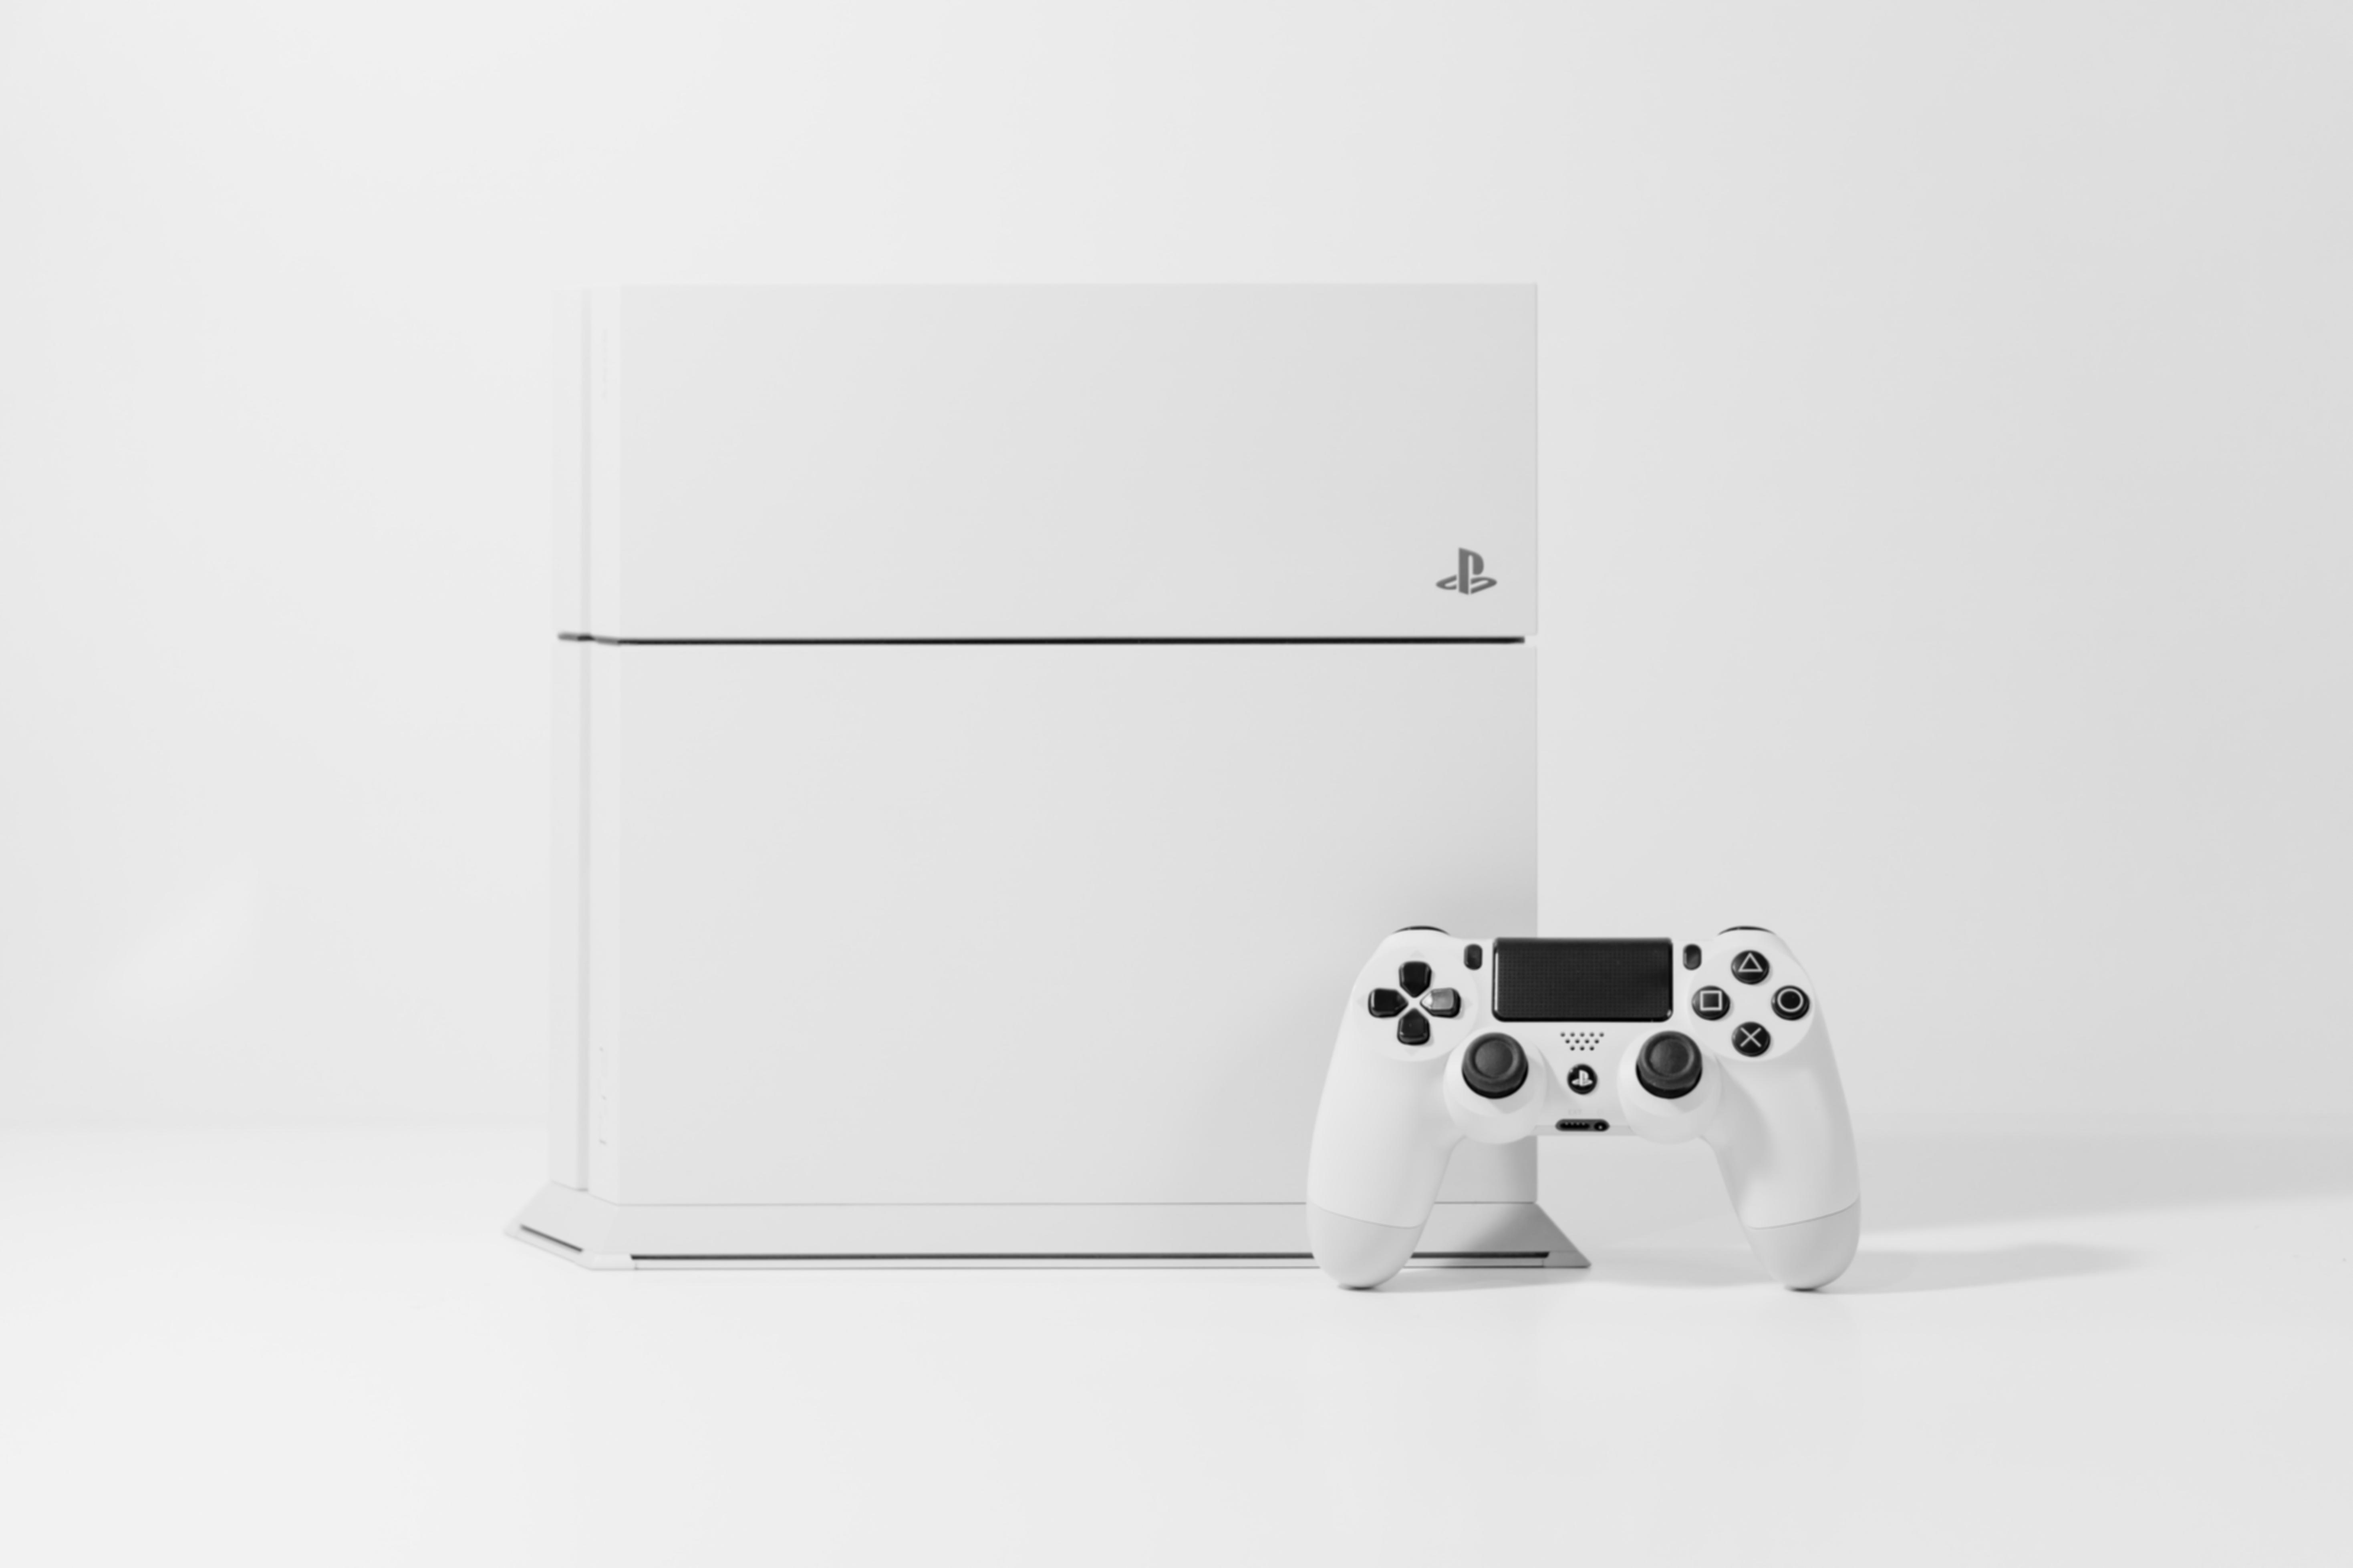
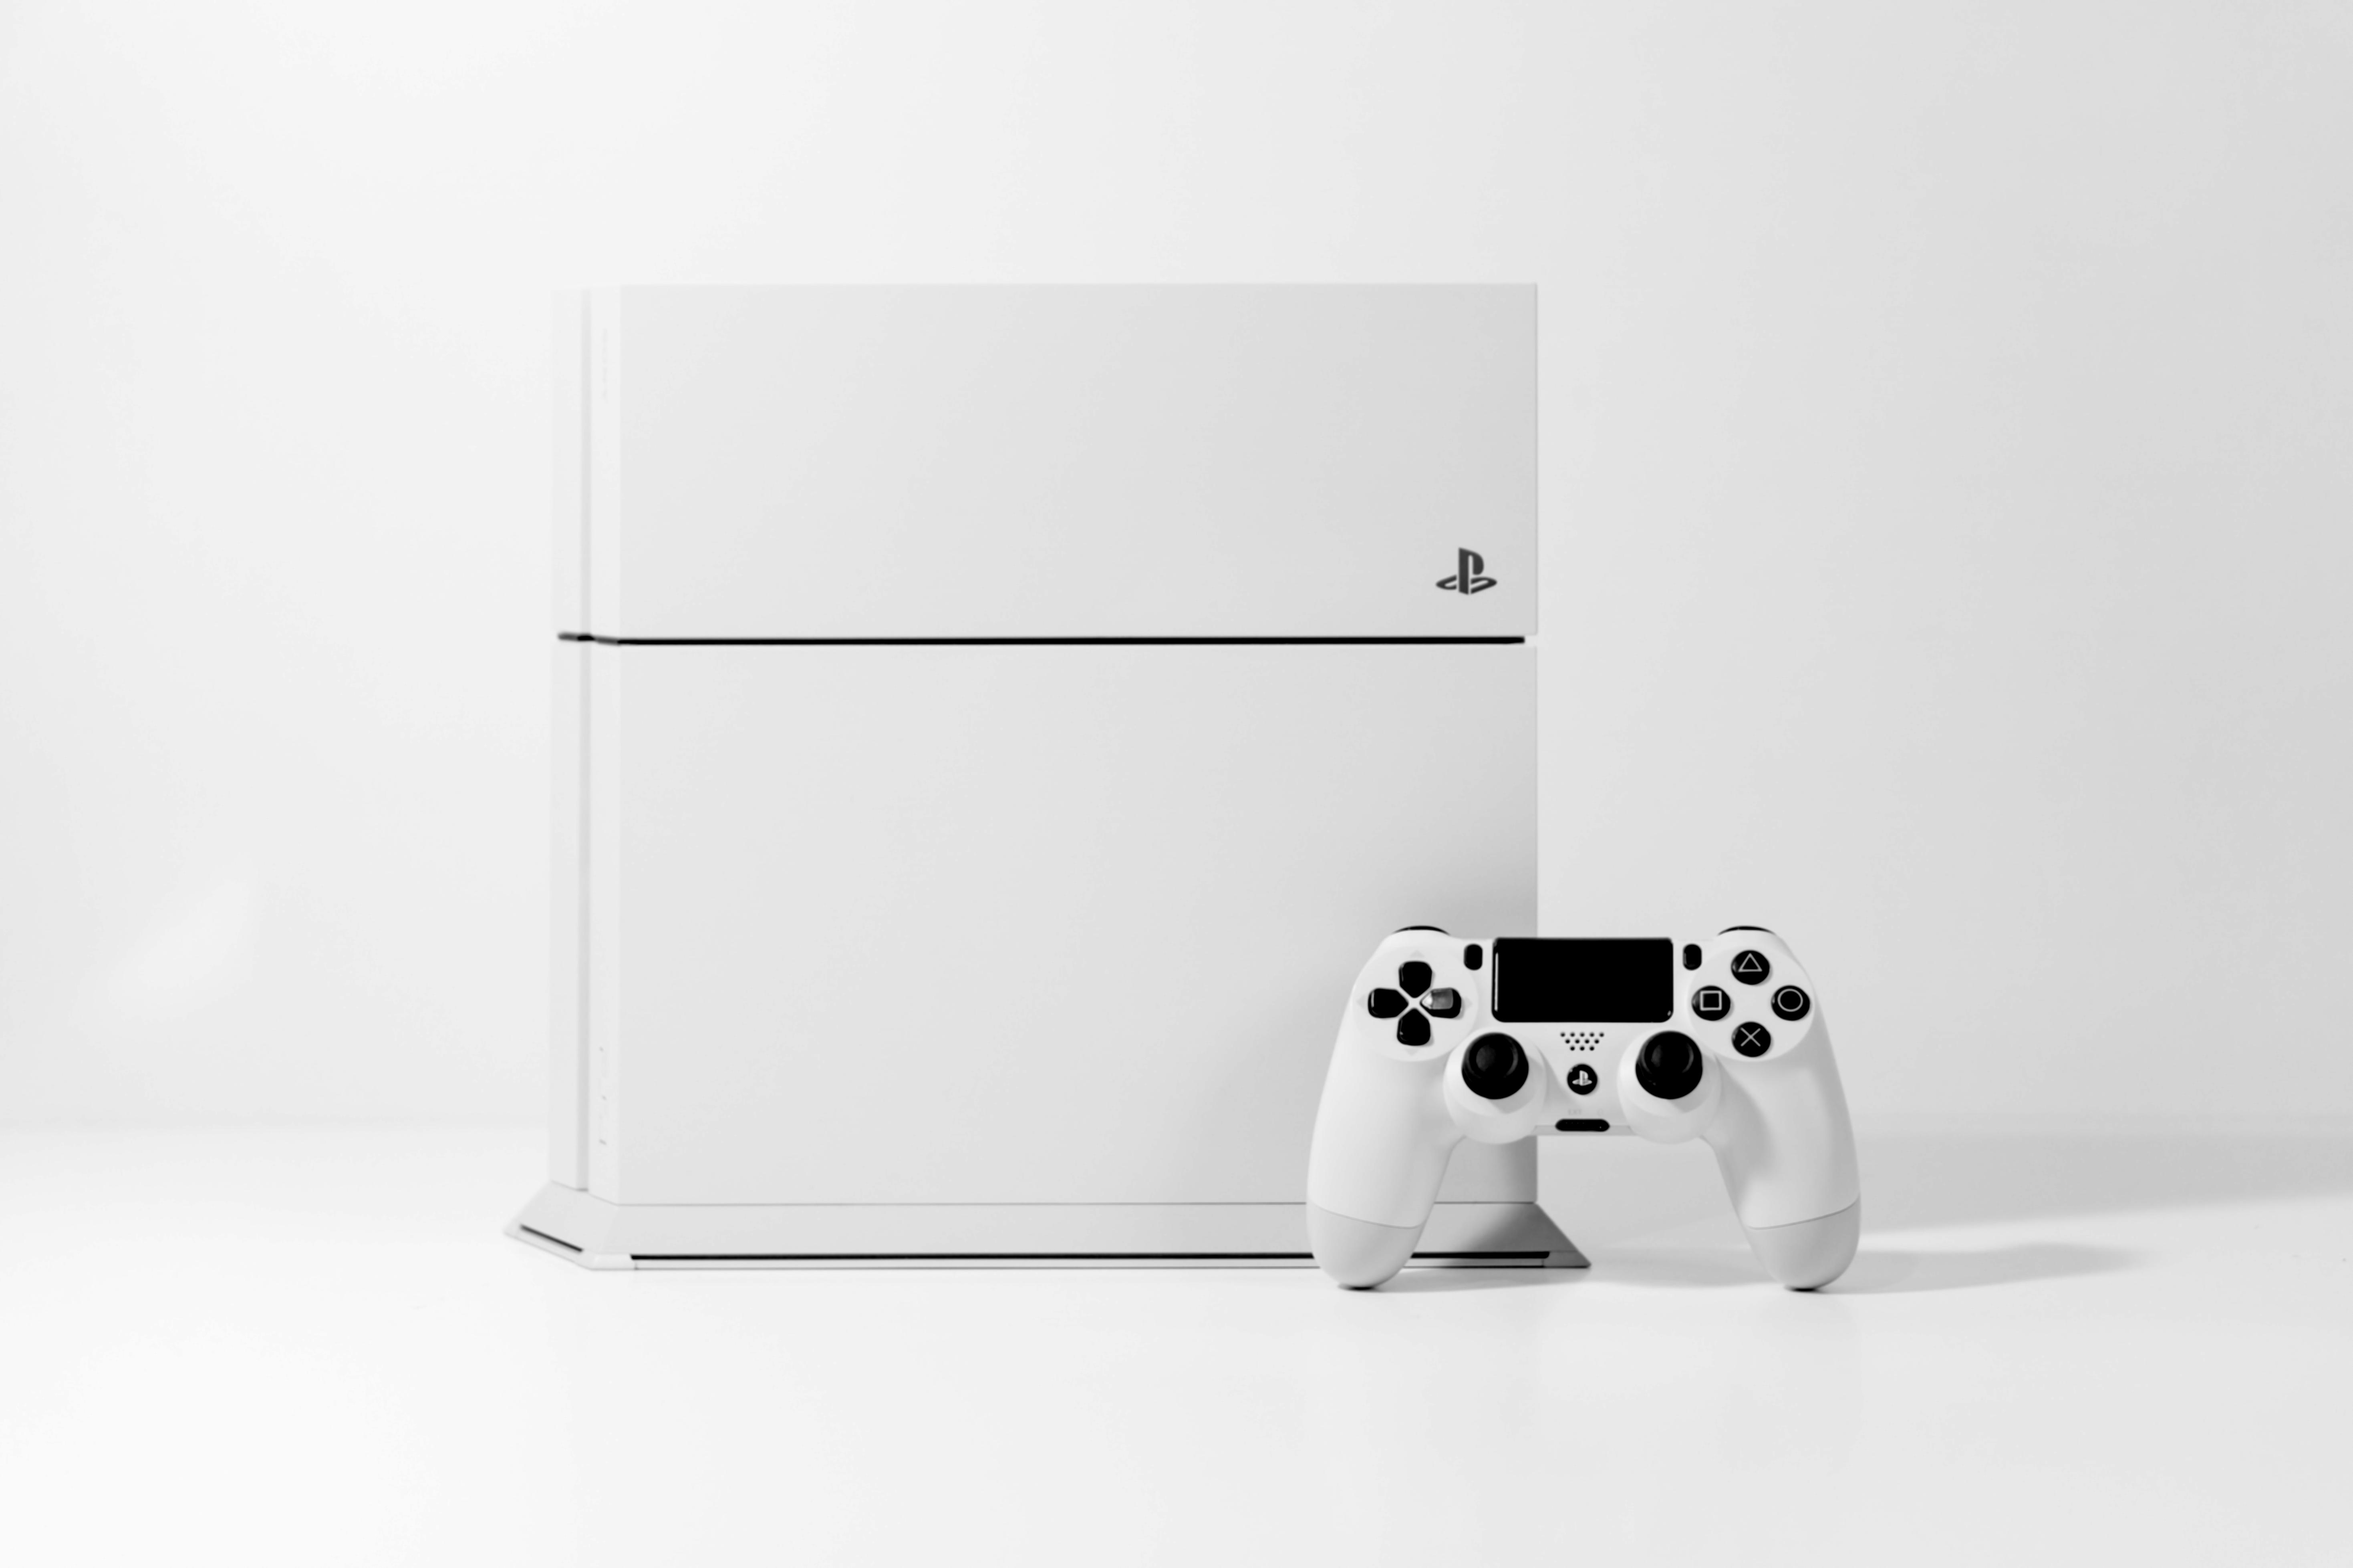
Add image contrast and docstrings

diff --git a/photoEditor.py b/photoEditor.py
@@ -1,13 +1,24 @@
 from PIL import Image, ImageEnhance, ImageFilter
 import os
 
+# Paths for image
 path = './img'
+# Paths for edited image
 pathOut = '/editedImgs'
 
+
 for filename in os.listdir(path):
+    """
+    
+    """
     img = Image.open(f"{path}/{filename}")
 
-    edit = img.filter(ImageFilter.BLUR).convert("L")
+    edit = img.filter(ImageFilter.SHARPEN).convert("L")
+
+    factor = 1.5
+    enhancer = ImageEnhance.Contrast(edit)
+    edit = enhancer.enhance(factor)
+
 
     clean_name = os.path.splitext(filename)[0]
 
